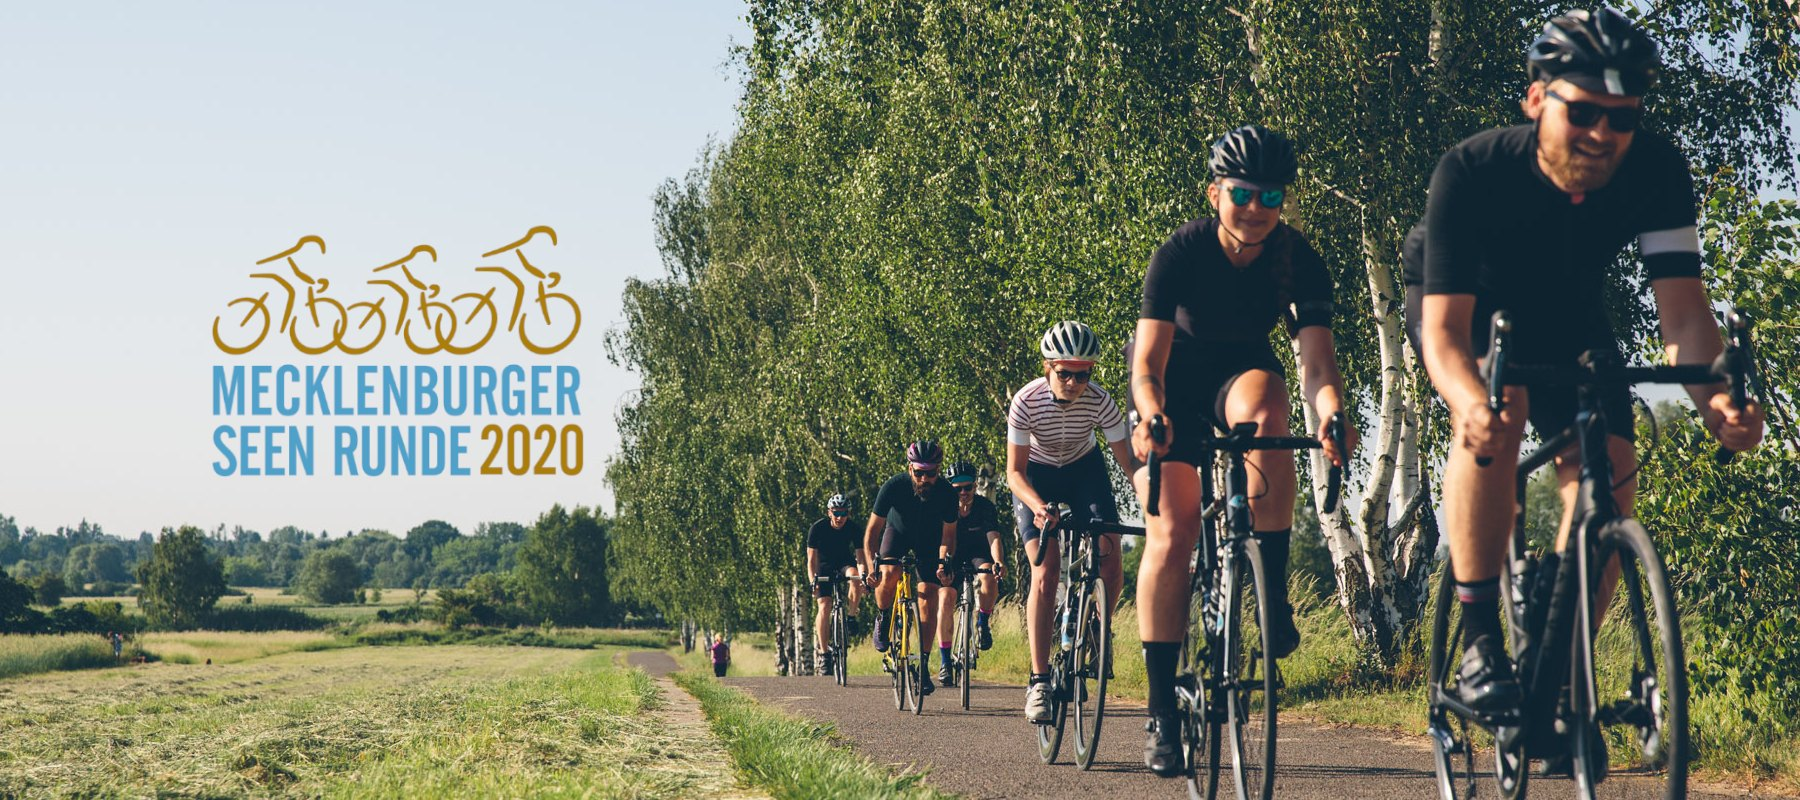
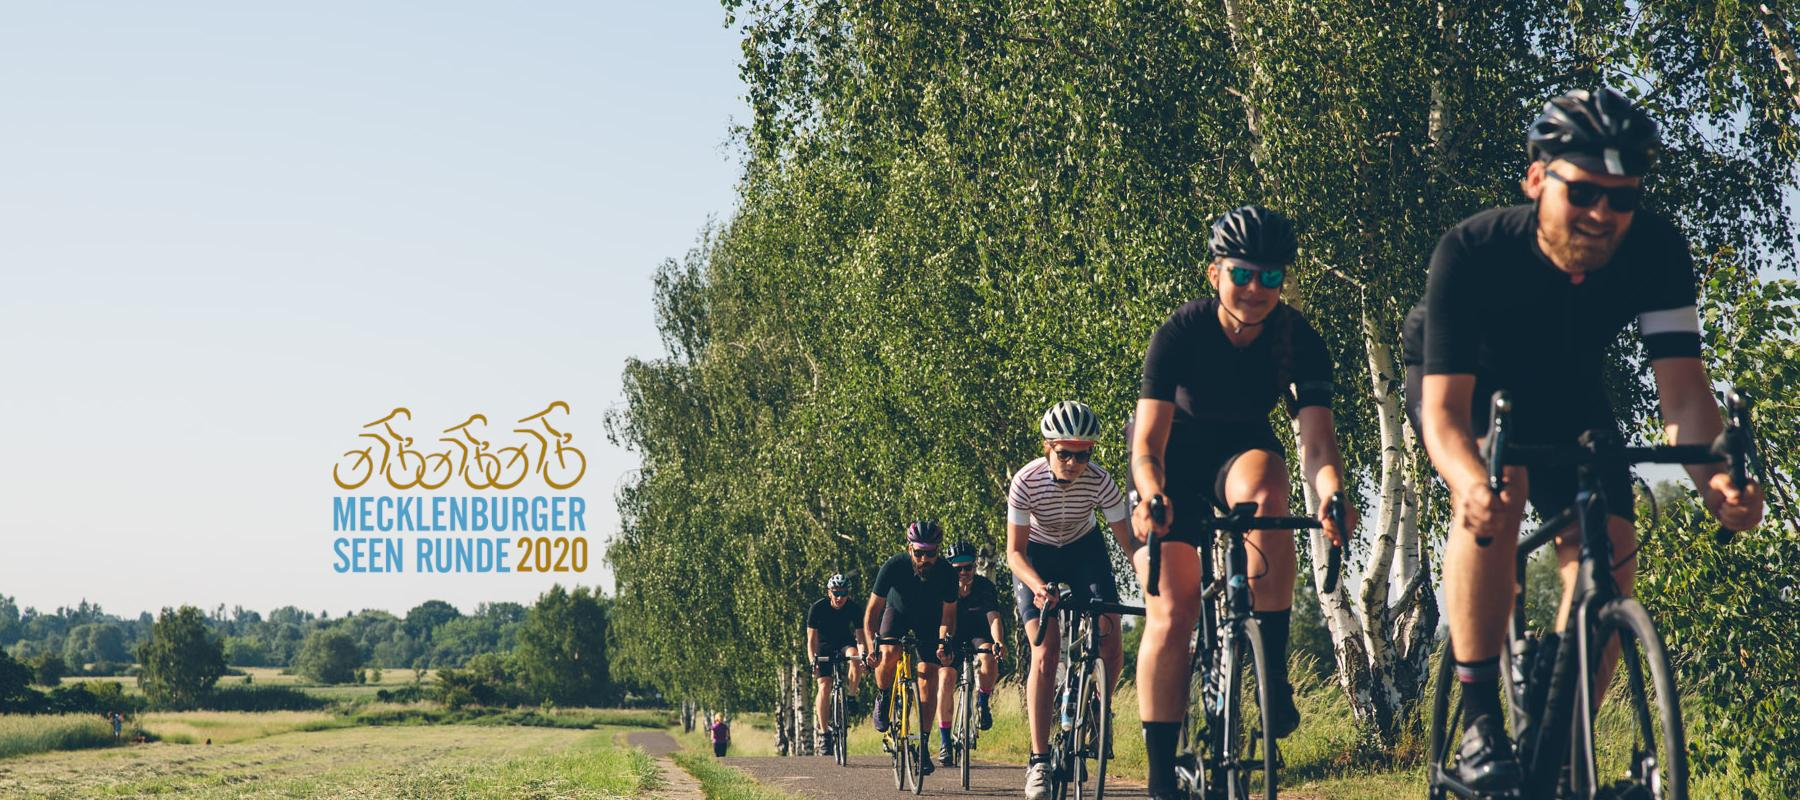
replaced MSR event hero image

diff --git a/listnride/app/assets/stylesheets/app.css b/listnride/app/assets/stylesheets/app.css
@@ -2682,7 +2682,7 @@ button.md-primary.md-cancel-button {
 /*-----------------------------------------------------------------------------------*/
 
 .lnr-msr #hero-shot {
-  background-position: 25% 70%;
+  background-position: 30% 90%;
 }
 
 .lnr-costadelsol #hero-shot {
